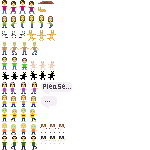
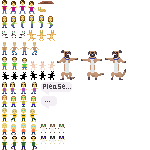
added ben

Changed region(s): [[0.3733, 0.32, 0.8533, 0.5333]]

diff --git a/demo/sarah/SpriteFactory.js b/demo/sarah/SpriteFactory.js
@@ -224,7 +224,23 @@
 				},
 				position: position || L7.p(0, 0)
 			});
+		},
 
+		ben: function(position) {
+			return new L7.Actor({
+				framesConfig: {
+					src: this.image,
+					width: 24,
+					height: 30,
+					direction: 'horizontal',
+					sets: [[], [0, 1, 2]],
+					initialSet: 0,
+					initialFrame: 0,
+					anchor: L7.p(0, 0),
+					offset: L7.p(57, 50)
+				},
+				position: position || L7.p(0, 0)
+			});
 		}
 	};
 

diff --git a/demo/sarah/boards/TedGarden.js b/demo/sarah/boards/TedGarden.js
@@ -5,11 +5,12 @@
 
 		var ted = spriteFactory.ted(L7.p(34, 35));
 		var chris = spriteFactory.chris(L7.p(49, 36));
+		var ben = spriteFactory.ben(L7.p(2, 20));
 
-		board.addActors(chris, ted);
+		board.addActors(chris, ted, ben);
 
 		board.ani.frame({
-			targets: [ted, chris],
+			targets: [ted, chris, ben],
 			pieceSetIndex: 1,
 			rate: 150,
 			looping: 'backforth',
